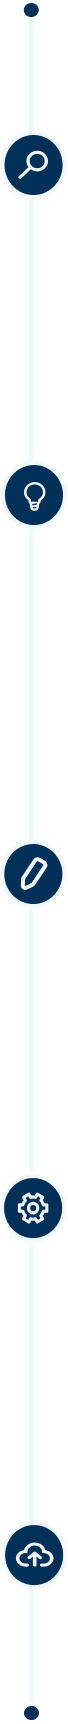
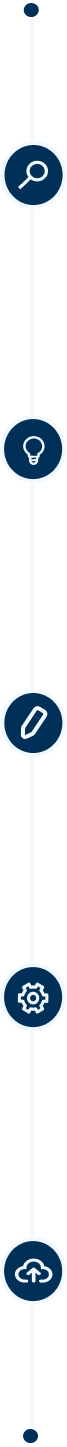
process section responsiveness

diff --git a/solverouswebsite/src/components/Process/process.js b/solverouswebsite/src/components/Process/process.js
@@ -1,0 +1,147 @@
+import ResponsivePicture from "../../components/Image/image_process";
+import processIcon1 from "../../assets/process1.png"
+import processIcon2 from "../../assets/process2.png"
+
+function Process() {
+    return (
+        <div>
+            {/* MOBILE VIEW - Shows only centered icon */}
+            <div className="md:hidden flex flex-row items-center space-x-6">
+                <img
+                    src={processIcon2}
+                    alt="Solverous Process"
+                    className="w-11"
+                />
+
+                {/* MOBILE CONTENT */}
+                <div className="w-[90%] space-y-7">
+                    <div className="bg-white p-6 rounded-xl">
+                        <h5 className="h5_title text-left text-[#004D8C]">Discover & Define</h5>
+                        <p className="p_white_bg text-left">We start by understanding your business, objectives, and challenges. Through detailed discussions and research, we define the scope and outcomes you need.</p>
+                    </div>
+
+                    <div className="bg-white p-6 rounded-xl">
+                        <h5 className="h5_title text-left text-[#004D8C]">Strategize & Plan</h5>
+                        <p className="p_white_bg text-left">We craft a tailored strategy — selecting the right technologies, outlining timelines, and defining milestones to ensure transparency and alignment.</p>
+                    </div>
+
+                    <div className="bg-white p-6 rounded-xl">
+                        <h5 className="h5_title text-left text-[#004D8C]">Design & Build</h5>
+                        <p className="p_white_bg text-left">Our team designs intuitive interfaces and develops scalable, high-performance solutions using modern tools and best practices.</p>
+                    </div>
+
+                    <div className="bg-white p-6 rounded-xl">
+                        <h5 className="h5_title text-left text-[#004D8C]">Test & Refine</h5>
+                        <p className="p_white_bg text-left">Before launch, we rigorously test everything — from performance and security to user experience — ensuring a flawless, reliable outcome.</p>
+                    </div>
+
+                    <div className="bg-white p-6 rounded-xl">
+                        <h5 className="h5_title text-left text-[#004D8C]">Launch & Optimize</h5>
+                        <p className="p_white_bg text-left">Once deployed, we monitor closely, gather feedback, and continuously improve your solution for maximum impact and long-term success.</p>
+                    </div>
+                </div>
+            </div>
+
+            {/* TABLET VIEW - Added responsive layout for tablets */}
+            <div className="hidden md:block xl:hidden">
+                <div className="flex flex-col space-y-8">
+                    {/* Two-column grid for tablet */}
+                    <div className="grid grid-cols-2 gap-6 px-8">
+                        <div className="bg-white p-6 rounded-xl">
+                            <h5 className="h5_title text-[#004D8C] text-left">Discover & Define</h5>
+                            <p className="p_white_bg reasons_margin text-left">
+                                We start by understanding your business, objectives, and challenges. Through detailed discussions and research, we define the scope and outcomes you need.
+                            </p>
+                        </div>
+
+                        <div className="bg-white p-6 rounded-xl">
+                            <h5 className="h5_title text-[#004D8C] text-left">Strategize & Plan</h5>
+                            <p className="p_white_bg reasons_margin text-left">
+                                We craft a tailored strategy — selecting the right technologies, outlining timelines, and defining milestones to ensure transparency and alignment.
+                            </p>
+                        </div>
+
+                        <div className="bg-white p-6 rounded-xl">
+                            <h5 className="h5_title text-[#004D8C] text-left">Design & Build</h5>
+                            <p className="p_white_bg reasons_margin text-left">
+                                Our team designs intuitive interfaces and develops scalable, high-performance solutions using modern tools and best practices.
+                            </p>
+                        </div>
+
+                        <div className="bg-white p-6 rounded-xl">
+                            <h5 className="h5_title text-[#004D8C] text-left">Test & Refine</h5>
+                            <p className="p_white_bg reasons_margin text-left">
+                                Before launch, we rigorously test everything — from performance and security to user experience — ensuring a flawless, reliable outcome.
+                            </p>
+                        </div>
+
+                        <div className="bg-white p-6 rounded-xl col-span-2 w-1/2 mx-auto">
+                            <h5 className="h5_title text-[#004D8C] text-left">Launch & Optimize</h5>
+                            <p className="p_white_bg reasons_margin text-left">
+                                Once deployed, we monitor closely, gather feedback, and continuously improve your solution for maximum impact and long-term success.
+                            </p>
+                        </div>
+                    </div>
+                </div>
+            </div>
+
+            {/* DESKTOP VIEW - Original layout with icon in middle */}
+            <div className="hidden lg:block">
+                <div className="flex flex-col-reverse space-y-6">
+                    {/* ABOVE PROCESS */}
+                    <div className="flex flex-row space-x-[13%] justify-center">
+                        {/* FIRST ABOVE PROCESS */}
+                        <div className="bg-white p-7 w-[25%] rounded-xl content-center">
+                            <h5 className="h5_title text-[#004D8C] text-left">Strategize & Plan</h5>
+                            <p className="p_white_bg reasons_margin w-full text-left">
+                                We craft a tailored strategy — selecting the right technologies, outlining timelines, and defining milestones to ensure transparency and alignment.
+                            </p>
+                        </div>
+                        {/* SECOND ABOVE PROCESS */}
+                        <div className="bg-white p-7 w-[25%] rounded-xl content-center">
+                            <h5 className="h5_title text-[#004D8C] text-left">Test & Refine</h5>
+                            <p className="p_white_bg reasons_margin w-full text-left">
+                                Before launch, we rigorously test everything — from performance and security to user experience — ensuring a flawless, reliable outcome.
+                            </p>
+                        </div>
+                    </div>
+
+                    <div className="flex flex-col pb-6">
+                        <img
+                            src={processIcon1}
+                            alt="Solverous Process"
+                            className="w-full"
+                        />
+                    </div>
+
+                    {/* BELOW PROCESS */}
+                    <div className="flex flex-row space-x-[13%] justify-center">
+                        {/* FIRST BELOW PROCESS */}
+                        <div className="bg-white p-7 w-[25%] rounded-xl content-center">
+                            <h5 className="h5_title text-[#004D8C] text-left">Discover & Define</h5>
+                            <p className="p_white_bg reasons_margin w-full text-left">
+                                We start by understanding your business, objectives, and challenges. Through detailed discussions and research, we define the scope and outcomes you need.
+                            </p>
+                        </div>
+                        {/* SECOND BELOW PROCESS */}
+                        <div className="bg-white p-7 w-[25%] rounded-xl content-center">
+                            <h5 className="h5_title text-[#004D8C] text-left">Design & Build</h5>
+                            <p className="p_white_bg reasons_margin w-full text-left">
+                                Our team designs intuitive interfaces and develops scalable, high-performance solutions using modern tools and best practices.
+                            </p>
+                        </div>
+                        {/* THIRD BELOW PROCESS */}
+                        <div className="bg-white p-7 w-[25%] rounded-xl content-center">
+                            <h5 className="h5_title text-[#004D8C] text-left">Launch & Optimize</h5>
+                            <p className="p_white_bg reasons_margin w-full text-left">
+                                Once deployed, we monitor closely, gather feedback, and continuously improve your solution for maximum impact and long-term success.
+                            </p>
+                        </div>
+                    </div>
+                </div>
+            </div>
+        </div>
+    );
+}
+
+export default Process;

diff --git a/solverouswebsite/src/pages/Home/home.js b/solverouswebsite/src/pages/Home/home.js
@@ -14,6 +14,7 @@ import Scaling from '../../assets/scaling.png';
 import Services from "../../components/Services/services";
 import HomebakerLogo from '../../assets/homebaker_logo.jpg';
 import ResponsivePicture from "../../components/Image/image_process";
+import Process from "../../components/Process/process";
 import ContactForm from "../../components/Contact/contact";
 import MeetingInTable from "../../assets/meeting_in_table.png";
 import PeopleInMeeting from "../../assets/people_in_meeting3.png";
@@ -181,46 +182,8 @@ function Home() {
           </div>
 
           <div className=" body_margin  relative flex flex-col space-y-[13%] md:space-y-4 ">
-            <ResponsivePicture />
-            {/* LINE AND ICONS REPRSENTING PROCESS */}
-            {/* <div className="absolute flex justify-center top-[2%] md:top-[44%] bottom-0 md:bottom-[64%] bg-slate-500 ">
-              <ResponsivePicture />
-            </div> */}
-
-            {/* <div className="flex flex-col-reverse md:flex-col space-y-24"> */}
-            {/* ABOVE PROCESS */}
-            {/* <div className="flex flex-col md:flex-row space-y-[13%] md:space-y-0 space-x-0 md:space-x-[13%] justify-center"> */}
-            {/* FIRST ABOVE PROCESS */}
-            {/* <div className=" bg-white p-7 w-[80%] md:w-[25%] rounded-xl content-center ">
-                  <h5 className=" h5_title text-[#004D8C] text-left ">Strategize & Plan</h5>
-                  <p className=" p_white_bg reasons_margin w-[95%] md:w-full text-left ">We craft a tailored strategy — selecting the right technologies, outlining timelines, and defining milestones to ensure transparency and alignment.</p>
-                </div> */}
-            {/* SECOND ABOVE PROCESS */}
-            {/* <div className=" bg-white p-7 w-[80%] md:w-[25%] rounded-xl content-center ">
-                  <h5 className=" h5_title text-[#004D8C] text-left ">Test & Refine</h5>
-                  <p className=" p_white_bg reasons_margin w-[95%] md:w-full text-left ">Before launch, we rigorously test everything — from performance and security to user experience — ensuring a flawless, reliable outcome.</p>
-                </div>
-              </div> */}
-
-            {/* BELOW PROCESS */}
-            {/* <div className="flex flex-col md:flex-row space-y-[13%] md:space-y-0 space-x-0 md:space-x-[13%] justify-center"> */}
-            {/* FIRST BELOW PROCESS */}
-            {/* <div className=" bg-white p-7 w-[80%] md:w-[25%] rounded-xl content-center ">
-                  <h5 className=" h5_title text-[#004D8C] text-left ">Discover & Define</h5>
-                  <p className=" p_white_bg reasons_margin w-[95%] md:w-full text-left ">We start by understanding your business, objectives, and challenges. Through detailed discussions and research, we define the scope and outcomes you need.</p>
-                </div> */}
-            {/* SECOND BELOW PROCESS */}
-            {/* <div className=" bg-white p-7 w-[80%] md:w-[25%] rounded-xl content-center ">
-                  <h5 className=" h5_title text-[#004D8C] text-left ">Design & Build</h5>
-                  <p className=" p_white_bg reasons_margin w-[95%] md:w-full text-left ">Our team designs intuitive interfaces and develops scalable, high-performance solutions using modern tools and best practices.</p>
-                </div> */}
-            {/* THIRD BELOW PROCESS */}
-            {/* <div className=" bg-white p-7 w-[80%] md:w-[25%] rounded-xl content-center ">
-                  <h5 className=" h5_title text-[#004D8C] text-left ">Launch & Optimize</h5>
-                  <p className=" p_white_bg reasons_margin w-[95%] md:w-full text-left ">Once deployed, we monitor closely, gather feedback, and continuously improve your solution for maximum impact and long-term success.</p>
-                </div> */}
-            {/* </div> */}
-            {/* </div> */}
+            {/* <ResponsivePicture /> */}
+            <Process/>  
           </div>
         </section>
 
